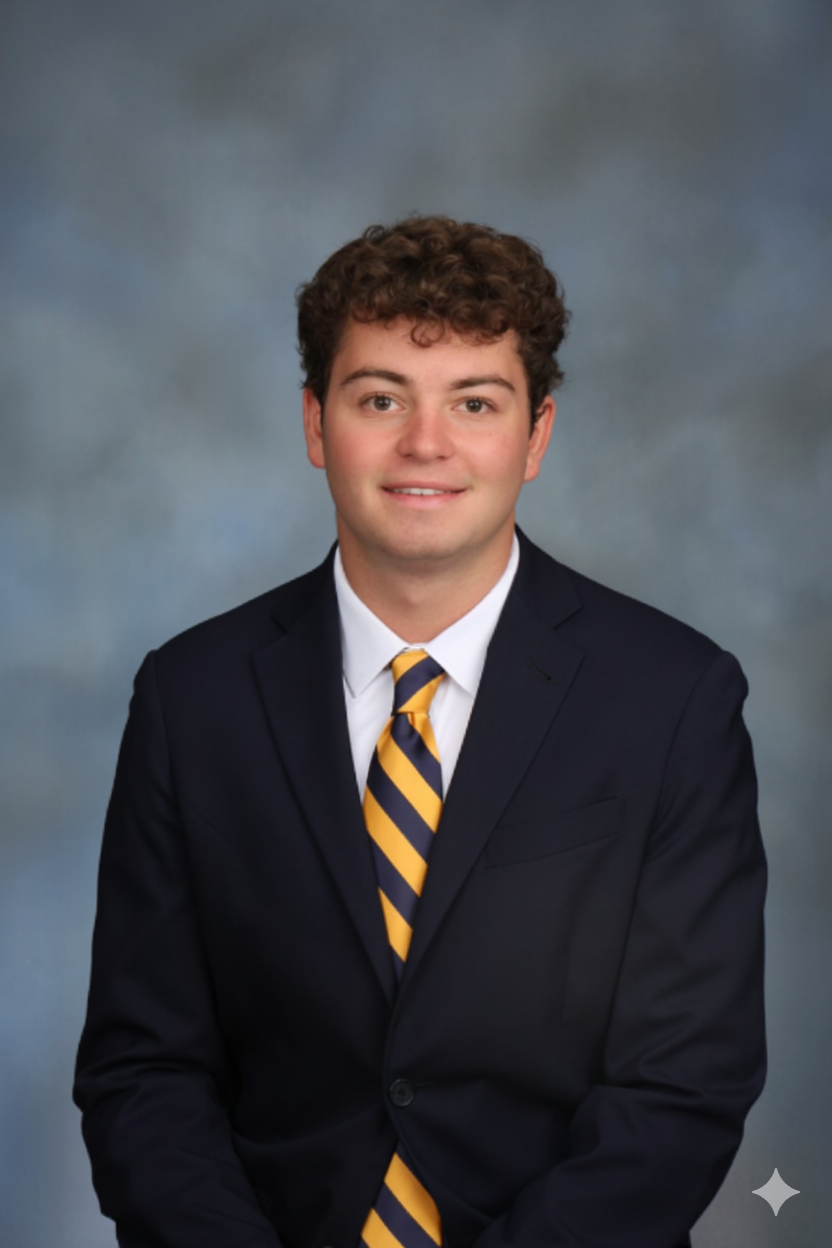
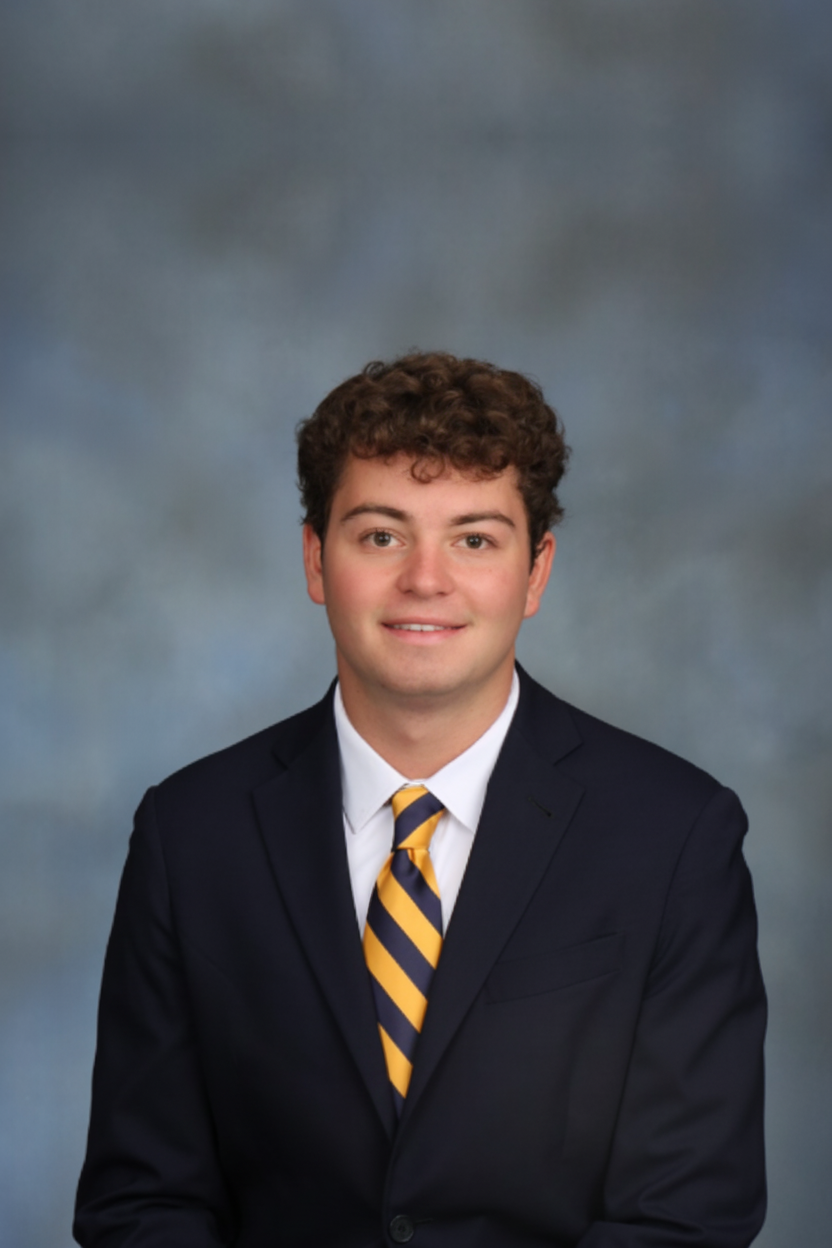
Cropped exec pics

diff --git a/website/templates/exec.html b/website/templates/exec.html
@@ -59,7 +59,7 @@
                     </div>
                 </div>
                 <div class="exec">
-                    <img class="exec__image" src="{% static 'img/exec/Seth_Adams.jpg' %}" alt="President">
+                    <img class="exec__image" src="{% static 'img/exec/Seth_Adams.png' %}" alt="President">
                     <div class="exec__name">Seth Adams</div>
                     <div class="exec__position">Vice President of Philanthropy</div>
                     <div class="exec__text">Class of 2027</div>
@@ -79,7 +79,7 @@
                     </div>
                 </div>
                 <div class="exec">
-                    <img class="exec__image" src="{% static 'img/exec/Anthony_Venuti.jpg' %}" alt="President">
+                    <img class="exec__image" src="{% static 'img/exec/Anthony_Venuti.png' %}" alt="President">
                     <div class="exec__name">Anthony Venuti</div>
                     <div class="exec__position">Vice President of Communications</div>
                     <div class="exec__text">Class of 2028</div>
